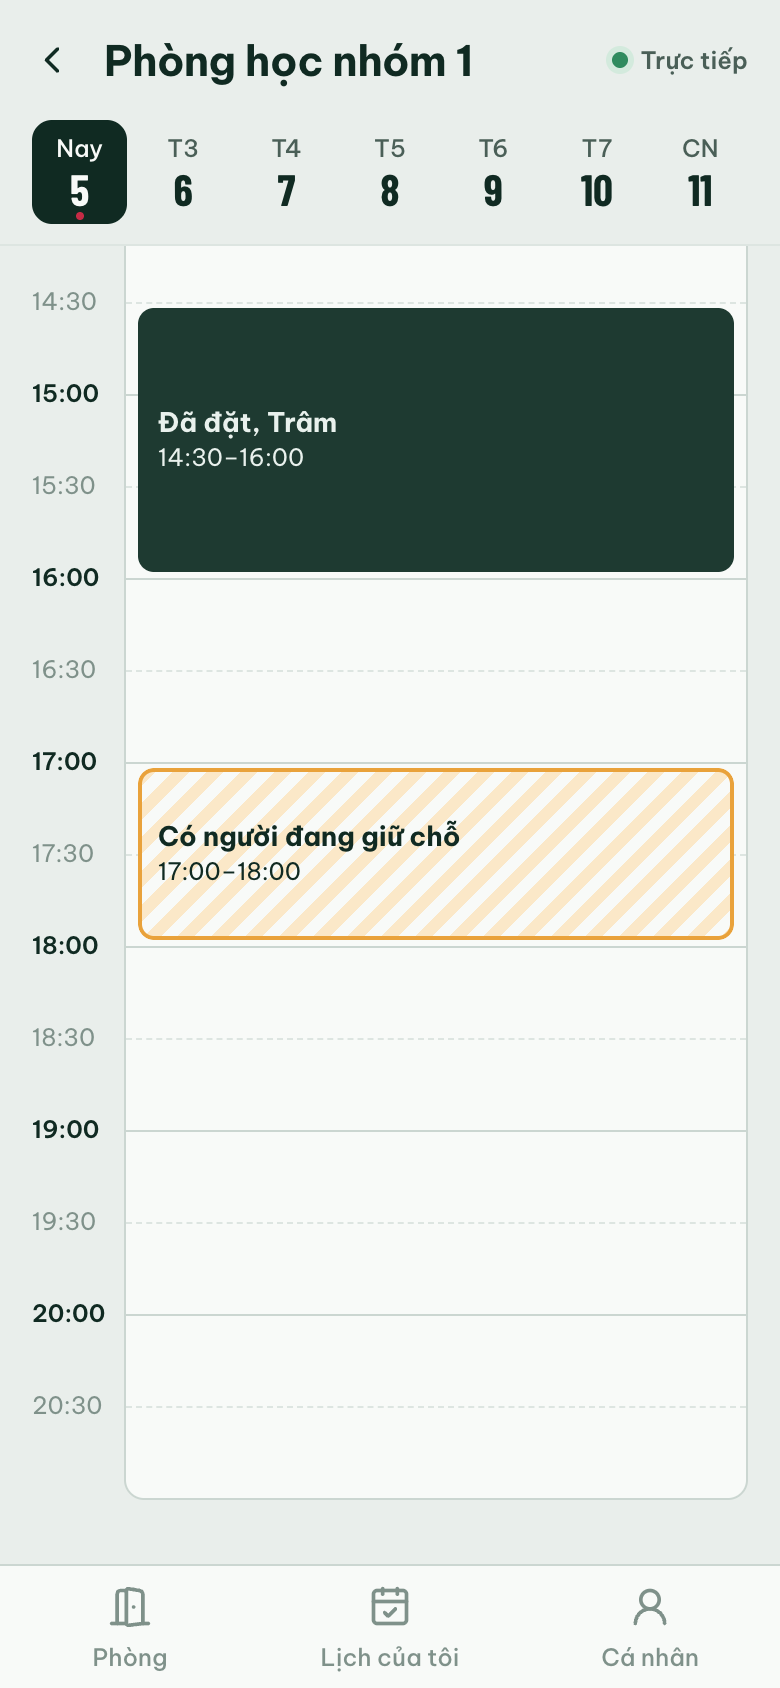
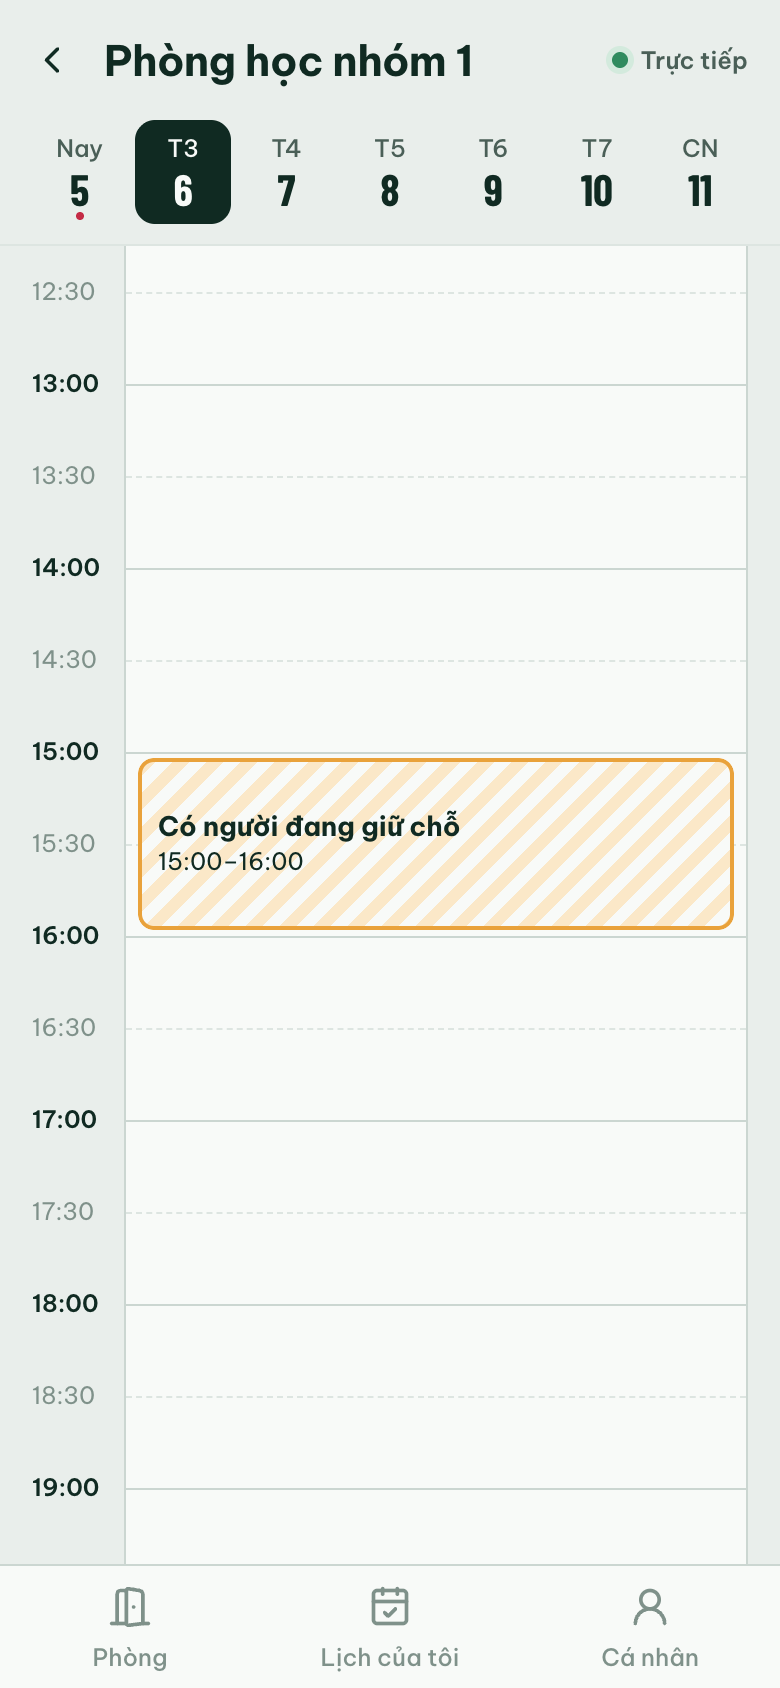
docs: link deploy Vercel, kiến trúc Redis và ảnh chụp production
- Báo cáo: họ tên Nguyễn Thiên, link Live Demo + GitHub, kiến trúc Vercel
  Functions + Upstash Redis, thêm thách thức 6–7 khi deploy
- README: link bản chạy thử, hướng dẫn trỏ app native tới server Vercel
- Chụp lại ảnh 1–8 trên https://mini-project3-ltdnt.vercel.app

diff --git a/Mini-Project-2-Report.md b/Mini-Project-2-Report.md
@@ -9,8 +9,8 @@
 ## 1. GENERAL INFORMATION & DELIVERABLE LINKS
 * **Team Members:**
   1. Nguyễn Thiên — Student ID: 23IT257 — Role: Sole Developer (Full-stack Mobile) — Contribution: 100%
-* **🔗 Live Demo URL:** Chưa có. Chạy local theo `README.md`: `npm run server` + `npm run dev` (web), hoặc `npm run build && npm start` để một tiến trình phục vụ cả app lẫn server realtime ở `http://localhost:4000`. Bản native chạy qua `npm run cap:android` / `npm run cap:ios`.
-* **💻 GitHub Repository:** Chưa có — cập nhật sau khi push.
+* **🔗 Live Demo URL:** https://mini-project3-ltdnt.vercel.app — bản Web cùng server realtime (Socket.IO trên Vercel Functions, dữ liệu trong Upstash Redis). Mở bằng hai trình duyệt / hai điện thoại, đăng nhập hai MSSV khác nhau để thấy cập nhật realtime. Màn hình trước cửa phòng: https://mini-project3-ltdnt.vercel.app/display/TV-201. Bản native (Android/iOS) chạy qua `npm run cap:android` / `npm run cap:ios` — xem `README.md`.
+* **💻 GitHub Repository:** https://github.com/AlenJason/Mini-Project3-LTDNT
 * **🎥 Video Demo (Optional):** Không có.
 
 > Đề bài ghi "React Native"; bản này được hiện thực bằng **React + Capacitor** (cùng hướng với Project 1.2) — một codebase chạy Web, Android, iOS.
@@ -35,7 +35,7 @@
 
 ## 3. TECHNICAL ARCHITECTURE & PROJECT STRUCTURE
 
-**Stack:** React 19 + TypeScript + Vite, đóng gói bằng Capacitor 8. Server realtime: Node.js + Express 5 + Socket.IO 4, chạy thẳng TypeScript bằng type stripping của Node.
+**Stack:** React 19 + TypeScript + Vite, đóng gói bằng Capacitor 8. Server realtime: Node.js + Express 5 + Socket.IO 4. Deploy: Vercel — web là file tĩnh, server là một Vercel Function (`api/server.ts`, WebSocket trên Fluid Compute, region Singapore), dữ liệu lưu trong Upstash Redis (Vercel Marketplace, gói Free). Chạy local thì server chạy thẳng TypeScript bằng type stripping của Node và lưu dữ liệu trong bộ nhớ + file JSON.
 
 **Cấu trúc thư mục chính:**
 ```
@@ -46,9 +46,14 @@ shared/            Dùng chung client + server
   protocol.ts        Kiểu sự kiện Socket.IO, Result<T>
 server/
   index.ts           Express (REST /api/rooms, phục vụ bản build) + Socket.IO
-  bookingService.ts  Nguồn sự thật: giữ chỗ, đặt, huỷ, check-in, trả phòng sớm, sweep no-show
+  realtime.ts        Express + Socket.IO (+ Redis adapter khi có REDIS_URL)
+  engine.ts          Mỗi thao tác: nạp state -> BookingService -> ghi compare-and-set, xung đột thì thử lại
+  bookingService.ts  Quy tắc nghiệp vụ: giữ chỗ, đặt, huỷ, check-in, trả phòng sớm, sweep no-show
+  store.ts           MemoryStore (local, file JSON) / RedisStore (Vercel, script Lua CAS)
   demoBots.ts        Người dùng demo tự đặt / huỷ / check-in
-  store.ts, seed.ts  Lưu file JSON, dữ liệu mẫu
+  seed.ts            Dữ liệu mẫu
+api/server.ts        Vercel Function: export http.Server của realtime.ts
+vercel.json          Build Vite, chuyển /api/* về function, region sin1
 src/
   store/realtime.ts  Store realtime (useSyncExternalStore): socket, snapshot theo ngày, cache offline
   services/          config, session, storage (Preferences), notifications, haptics
@@ -59,7 +64,7 @@ android/, ios/       Project native do Capacitor sinh ra
 
 **Quản lý trạng thái:** Một store realtime dạng module (không dùng Redux/Zustand) đọc qua `useSyncExternalStore`. Store giữ dữ liệu theo ngày (`days[date]`), "lịch của tôi" và chỗ đang giữ; màn hình nào cần ngày nào thì `watchDay(date)` (đếm tham chiếu, join/leave room Socket.IO tương ứng). Mọi lệnh gửi qua `emitWithAck` có timeout 10 giây và trả về `Result<T>` thống nhất, nên UI chỉ cần xử lý `ok` / `error.message`.
 
-**Chống đặt trùng:** Server là nguồn sự thật duy nhất. Node xử lý từng sự kiện socket tuần tự và `BookingService` hoàn toàn đồng bộ (không `await` giữa bước kiểm tra và bước ghi), nên "kiểm tra trùng rồi ghi" là nguyên tử — không cần khoá. Lớp giữ chỗ 2 phút ngăn hai người cùng điền form cho một khung giờ ngay từ đầu.
+**Chống đặt trùng:** Server là nguồn sự thật duy nhất, kể cả khi Vercel chạy nhiều instance. Mỗi thao tác nạp toàn bộ state từ Redis, chạy `BookingService` (hoàn toàn đồng bộ), rồi ghi lại bằng một script Lua compare-and-set: nếu instance khác đã ghi trước thì phiên bản đã đổi, thao tác được nạp lại và chạy lại. Sự kiện realtime chỉ được phát sau khi ghi thành công, và Socket.IO Redis adapter chuyển chúng tới client đang kết nối ở mọi instance. Lớp giữ chỗ 2 phút ngăn hai người cùng điền form cho một khung giờ ngay từ đầu.
 
 **Chiến lược xử lý ngoại lệ:**
 - Mọi đầu vào từ client được kiểm tra lại ở server (kiểu dữ liệu, ngày hợp lệ, bội số 30 phút, độ dài mục đích, sức chứa); handler bọc `try/catch` và luôn trả ack.
@@ -67,13 +72,13 @@ android/, ios/       Project native do Capacitor sinh ra
 - Mất mạng hoặc server không phản hồi: lệnh trả `NETWORK` sau timeout thay vì treo; UI khoá thao tác đặt, vẫn xem được dữ liệu cache.
 - Gọi plugin native (thông báo, rung) đều bọc `try/catch` và tự bỏ qua trên web.
 
-**Kiểm thử:** 31 unit test (`node --test`) cho giờ campus, quy định đặt phòng và `BookingService` (trùng lịch, giữ chỗ, hết hạn, mất kết nối, check-in sớm / trễ, no-show, trả phòng sớm). Kiểm thử thủ công end-to-end bằng Chrome DevTools (2 người dùng độc lập) và Android emulator (APK debug).
+**Kiểm thử:** 34 unit test (`node --test`) cho giờ campus, quy định đặt phòng, `BookingService` (trùng lịch, giữ chỗ, hết hạn, mất kết nối, check-in sớm / trễ, no-show, trả phòng sớm) và `BookingEngine` (8 người ở 4 instance cùng đặt một khung → đúng 1 người thành công). Kiểm thử end-to-end trên bản production bằng Chrome DevTools (2 người dùng độc lập) và script 6 client đặt đồng thời; bản native kiểm tra trên Android emulator (APK debug).
 
 ---
 
 ## 4. EMPIRICAL EVIDENCE & SCREENSHOTS
 
-*(Ảnh chụp từ ứng dụng đang chạy, viewport 390×844; ảnh 9 chụp từ Android emulator)*
+*(Ảnh 1–8 chụp từ bản production https://mini-project3-ltdnt.vercel.app, viewport 390×844, xem lịch ngày 06/10; ảnh 9 chụp từ Android emulator)*
 
 **Ảnh 1 — Đăng nhập** (`docs/screenshots/01-login.png`)
 Họ tên + MSSV; MSSV là định danh để đồng bộ lịch giữa các thiết bị.
@@ -82,7 +87,7 @@ Họ tên + MSSV; MSSV là định danh để đồng bộ lịch giữa các th
 Số phòng đang trống, dải lịch từng phòng với vạch "bây giờ", lọc theo loại phòng.
 
 **Ảnh 3 — Người dùng A đang chọn giờ** (`docs/screenshots/03-selecting-hold.png`)
-Khung 17:00–18:00 tô vàng, thanh dưới báo *đang giữ chỗ cho bạn*.
+Khung 15:00–16:00 phòng TV-201 tô vàng, thanh dưới báo *đang giữ chỗ cho bạn*.
 
 **Ảnh 4 — Người dùng B thấy ngay khung đang bị giữ** (`docs/screenshots/04-held-by-other-user.png`)
 Khung sọc cam *Có người đang giữ chỗ*, không chọn được.
@@ -91,10 +96,10 @@ Khung sọc cam *Có người đang giữ chỗ*, không chọn được.
 Đếm ngược thời gian giữ chỗ, chọn mục đích, số người (giới hạn theo sức chứa).
 
 **Ảnh 6 — Lịch của tôi** (`docs/screenshots/06-my-bookings.png`)
-Lịch đang dùng (nút *Trả phòng sớm*), lịch sắp tới với giờ mở check-in.
+Hai lịch sắp tới (lab K-105 và phòng TV-201) với thời gian còn lại và giờ mở check-in.
 
 **Ảnh 7 — Màn hình trước cửa phòng** (`docs/screenshots/07-room-display.png`)
-Trạng thái *Đang sử dụng*, người đang dùng, lịch tiếp theo trong ngày.
+Ngoài giờ mở cửa: báo giờ mở lại và lịch ngày mai của phòng, cập nhật realtime (lịch 15:00 vừa đặt ở ảnh 5 xuất hiện ngay). Trong giờ mở cửa, màn hình chuyển xanh *Trống* / đỏ *Đang sử dụng* kèm người đang dùng.
 
 **Ảnh 8 — Offline** (`docs/screenshots/08-offline.png`)
 Banner mất mạng, trạng thái *Mất kết nối*, vẫn xem được dữ liệu đã tải.
@@ -125,3 +130,11 @@ Lịch đặt phòng gắn với giờ tại trường, nhưng `Date` của Java
 **Thách thức 5 — Build Android lỗi "Unsupported class file major version 69"**
 JDK đi kèm Android Studio bản mới là Java 25, Gradle 8.14.3 trong template Capacitor chưa hỗ trợ; nâng Gradle lên 9.x thì build script chạy được nhưng plugin Capacitor 8 lại yêu cầu toolchain Java 21.
 **Giải pháp:** Build bằng JDK 21 (Temurin) — APK debug build thành công, cài lên emulator và kết nối server qua `10.0.2.2:4000`. Hướng dẫn chọn Gradle JDK 21 trong Android Studio được ghi trong `README.md`.
+
+**Thách thức 6 — Deploy lên Vercel: mỗi instance có bộ nhớ riêng nên đặt trùng**
+Bản đầu tiên deploy lên Vercel vẫn lưu lịch trong RAM như khi chạy local. Thử trên production bằng 6 client cùng đặt một khung giờ: cả **6/6 đều thành công**, vì Vercel Functions có thể chạy nhiều instance, mỗi WebSocket gắn với một instance và không instance nào biết lịch của instance khác.
+**Giải pháp:** Chuyển state sang Upstash Redis (Vercel Marketplace) và thêm `BookingEngine`: nạp state → chạy nghiệp vụ → ghi bằng script Lua compare-and-set, xung đột thì thử lại; thêm Socket.IO Redis adapter để sự kiện tới được client ở mọi instance. Chạy lại cùng phép thử trên production: **1 thành công, 5 nhận `SLOT_TAKEN`**, client xem ở instance khác vẫn nhận được sự kiện đặt và huỷ.
+
+**Thách thức 7 — Socket.IO trả 404 trên Vercel**
+REST API (`/api/rooms`) chạy bình thường nhưng WebSocket không kết nối được (`Unexpected server response: 404`). Thử từng đường dẫn cho thấy URL có dấu `/` cuối (`/api/socket.io/`, Socket.IO tự thêm) không khớp rewrite `/api/:path*` nên không vào được function. Thêm vào đó, Vercel biên dịch `api/server.ts` mà giữ nguyên import đuôi `.ts` khiến function không chạy được.
+**Giải pháp:** Đổi rewrite sang `/api/(.*)`, tắt `addTrailingSlash` cho Socket.IO ở cả server và client, chỉ dùng transport `websocket` (Vercel không hỗ trợ long-polling); bật `rewriteRelativeImportExtensions` trong `tsconfig.json` gốc để import được đổi sang `.js` khi biên dịch. Đã kiểm tra bằng `vercel build` chạy local trước, rồi xác nhận WebSocket kết nối được trên production.

diff --git a/README.md b/README.md
@@ -5,6 +5,9 @@
 một khung giờ, mọi thiết bị khác thấy ngay qua **Socket.IO**; server là nguồn sự
 thật duy nhất nên không bao giờ có hai lịch trùng giờ.
 
+**Bản chạy thử:** https://mini-project3-ltdnt.vercel.app (web + server realtime trên Vercel,
+dữ liệu trong Upstash Redis) — màn hình cửa phòng: https://mini-project3-ltdnt.vercel.app/display/TV-201
+
 | Danh sách phòng | Đang chọn giờ | Người khác thấy | Lịch của tôi | Màn hình cửa phòng |
 |---|---|---|---|---|
 | ![](docs/screenshots/02-rooms.png) | ![](docs/screenshots/03-selecting-hold.png) | ![](docs/screenshots/04-held-by-other-user.png) | ![](docs/screenshots/06-my-bookings.png) | ![](docs/screenshots/07-room-display.png) |
@@ -146,7 +149,8 @@ npm run cap:ios       # build web -> cap sync -> mở Xcode (cần cài Xcode)
 - **Địa chỉ server**: Android emulator tự dùng `http://10.0.2.2:4000`, iOS
   simulator dùng `http://localhost:4000`. Trên **điện thoại thật**, vào tab
   **Cá nhân → Máy chủ realtime** nhập `http://<IP-LAN-của-máy-tính>:4000` (máy
-  tính và điện thoại cùng Wi-Fi) — không cần build lại. Hoặc đặt
+  tính và điện thoại cùng Wi-Fi) — không cần build lại. Muốn dùng server đã
+  deploy thì nhập `https://mini-project3-ltdnt.vercel.app`. Hoặc đặt
   `VITE_SERVER_URL` trong `.env` (xem `.env.example`).
 - **JDK cho Android**: Capacitor 8 cần **JDK 21**. JDK đi kèm Android Studio mới
   (Java 25) không chạy được Gradle 8.14 — vào *Settings → Build, Execution,
